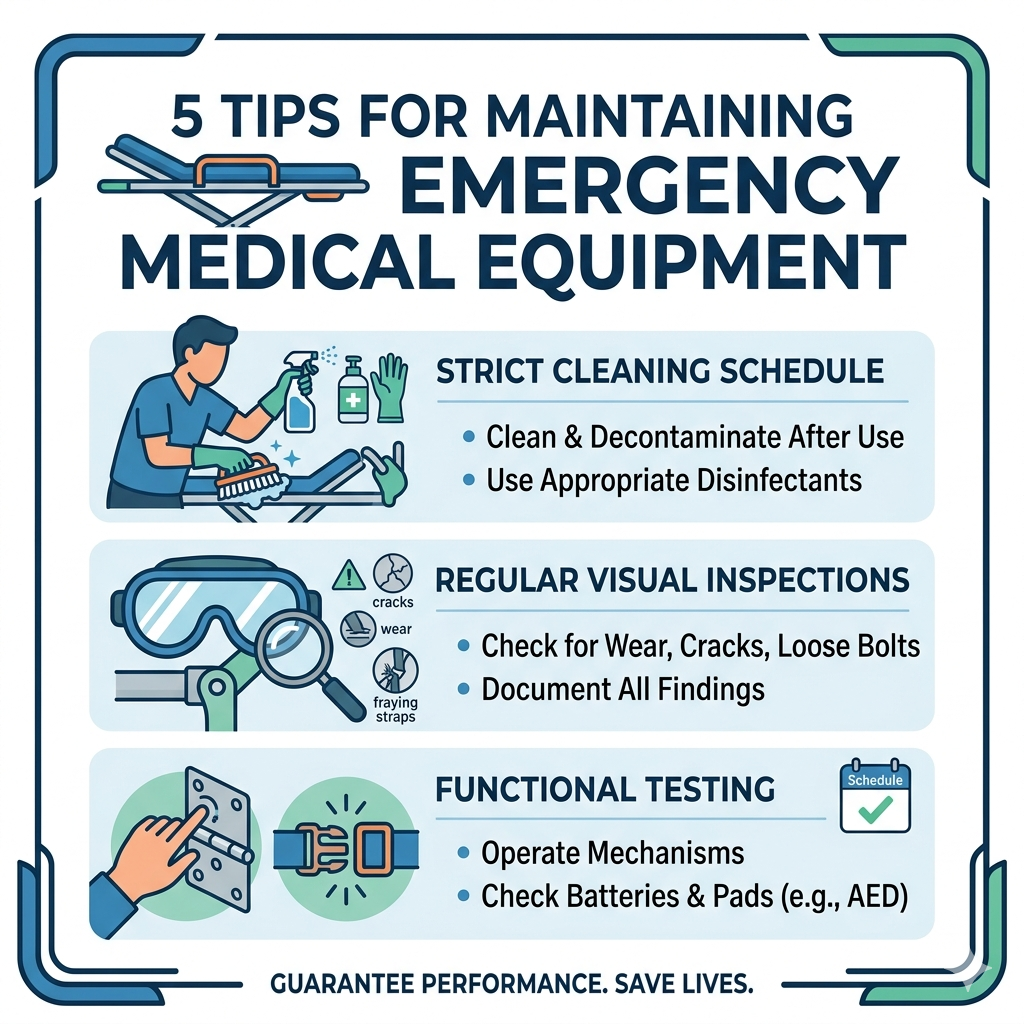
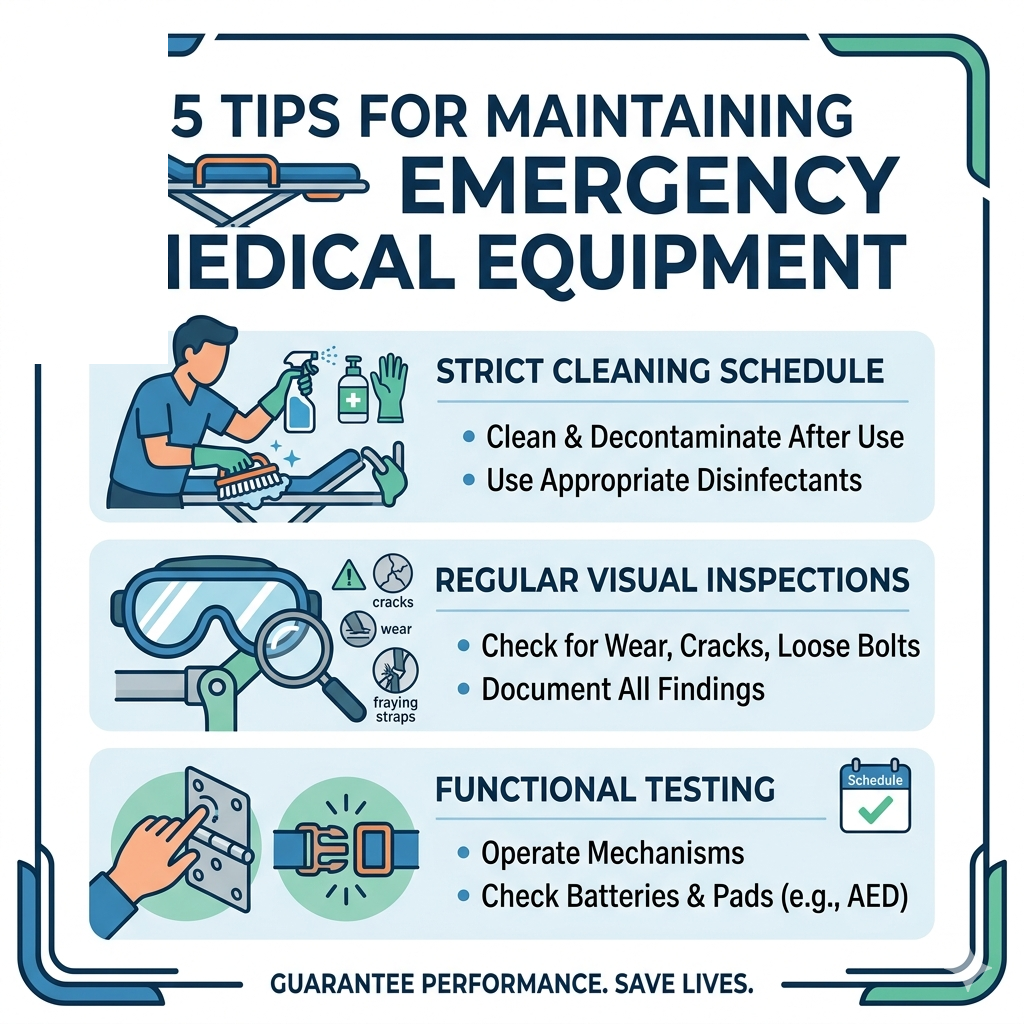
BLOG 2

diff --git a/public/insights/post2.html b/public/insights/post2.html
@@ -3,7 +3,7 @@
 <head>
     <meta charset="UTF-8">
     <meta name="viewport" content="width=device-width, initial-scale=1.0">
-    <title>5 Tips for Maintaining Your Emergency Medical Equipment - GoSafeMed</title>
+    <title>Beyond the Rescue: How to Protect Your Lifesaving Investment - GoSafeMed</title>
     <script src="https://cdn.tailwindcss.com"></script>
     <style>
         .whatsapp-fab { position: fixed; bottom: 20px; right: 20px; z-index: 1000; transition: transform 0.3s ease-in-out; }
@@ -56,21 +56,39 @@
     <!-- Blog Post Content -->
     <main class="container mx-auto px-6 py-12 max-w-4xl">
         <article class="prose lg:prose-xl">
-            <h1 class="text-3xl md:text-4xl font-bold text-secondary">5 Tips for Maintaining Your Emergency Medical Equipment</h1>
+            <h1 class="text-3xl md:text-4xl font-bold text-secondary">Beyond the Rescue: How to Protect Your Lifesaving Investment</h1>
             <p class="text-gray-500 text-sm mt-2">FEB 28, 2026</p>
             
             <img src="images/posts/post2/hero.png" alt="Medical equipment being inspected">
             
-            <p>Proper maintenance ensures your rescue equipment is ready when you need it most. Learn five essential tips for inspecting, cleaning, and storing your gear to prolong its lifespan and guarantee performance. Regular checks are non-negotiable for professionals.</p>
-            
-            <h2>1. Follow a Strict Cleaning Schedule</h2>
-            <p>After every use, all equipment must be thoroughly cleaned and decontaminated according to manufacturer guidelines. Use appropriate disinfectants and pay close attention to straps, handles, and joints where contaminants can accumulate.</p>
-            
-            <h2>2. Regular Visual Inspections</h2>
-            <p>Before and after each mission, conduct a visual inspection. Look for signs of wear and tear, such as cracks in plastic, fraying straps, or loose bolts. Document any findings and take compromised equipment out of service immediately until it can be repaired or replaced.</p>
+            <h2>Introduction</h2>
+            <p>Buying a high-quality Spinal Board or an Elite-Guard First Aid Kit is only the first step. The real challenge for Occupational Health &amp; Safety (OHS) managers and EMS providers is ensuring that equipment remains mission-ready for years, not just months.</p>
+            <p>Neglecting maintenance doesn't just shorten the lifespan of your gear—it increases your operational risk. Here is how to keep your rescue assets in peak condition.</p>
 
-            <h2>3. Functional Testing</h2>
-            <p>Don't just look—test. Regularly operate mechanisms like folding hinges, locking pins, and buckles to ensure they function smoothly and securely. For devices like AEDs, follow the self-test schedule and check battery and pad expiration dates.</p>
+            <h2>1. Environmental Decontamination (Industrial vs. Outdoor)</h2>
+            <p>A "one-size-fits-all" cleaning approach doesn't work. A stretcher used in a chemical plant faces different threats than one used on a muddy hiking trail.</p>
+            <p><strong>The Pain Point:</strong> Corrosive substances or organic debris degrading the material over time.</p>
+            <p><strong>The Action:</strong> After every mission, use pH-neutral disinfectants for our HDPE Spinal Boards. For the Elite-Guard Series, pay special attention to the textile hinges and zippers where sand or salt can cause mechanical failure.</p>
+            <p><strong>The Benefit to You:</strong> You avoid premature replacement costs and ensure a hygienic environment for every patient.</p>
+
+            <h2>2. The "Hidden Flaw" Inspection (Structural Integrity)</h2>
+            <p>Visual checks are common, but "functional stress tests" are what save lives. A crack in a spine board or a loose bolt on a foldable stretcher can be invisible to the naked eye until it’s under load.</p>
+            <p><strong>The Pain Point:</strong> Equipment failure during actual patient transport.</p>
+            <p><strong>The Action:</strong> Regularly operate all folding mechanisms and locking pins. For Spinal Boards, check for "stress whitening" or deep gouges that could compromise the board’s rigidity.</p>
+            <p><strong>The Benefit to You:</strong> Total confidence that your gear will perform under the weight of a real emergency.</p>
+
+            <h2>3. Consumables Audit: Expiry Dates &amp; Seal Integrity</h2>
+            <p>The hardware (stretchers) might last a decade, but the "software" (the medical supplies inside) requires constant vigilance.</p>
+            <p><strong>The Pain Point:</strong> Opening a first aid kit in a crisis only to find expired bandages or tampered/opened items that are no longer sterile.</p>
+            <p><strong>The Action:</strong> Perform a routine audit of "Best Before" dates and check that all sterile items remain in their original, unsealed state. To simplify this process, always keep our Medicine pack &amp; supplies on hand for instant replenishment.</p>
+            <p><strong>The Benefit to You:</strong> Economy and Peace of Mind. Instead of replacing an entire professional kit, you can simply swap out the specific modules or expired items. This lowers your long-term maintenance costs while ensuring every component is 100% ready for use.</p>
+
+            <h2>Empowering Your Safety Strategy</h2>
+            <p>At GoSafeMed, we don’t just supply hardware from the manufacturing hubs of Jiangsu and Guangdong; we provide the strategic resources to keep those tools working.</p>
+            <p>Whether you are managing a corporate office safety program or a professional EMS fleet, our FDA, CE, and ISO 13485 certified equipment is designed for durability and ease of maintenance.</p>
+
+            <h2>Looking for cost-effective refill solutions for your existing kits?</h2>
+            <p>Contact Hellen at GoSafeMed – We help you solve the procurement and maintenance puzzle so you can focus on what matters most: saving lives.</p>
 
         </article>
         

diff --git a/public/index.html b/public/index.html
@@ -129,11 +129,11 @@
                 <!-- Insight 2 -->
                 <div class="bg-white rounded-lg shadow-lg overflow-hidden">
                     <a href="insights/post2.html">
-                        <img src="insights/images/covers/post2.png" alt="5 Tips for Maintaining Your Emergency Medical Equipment" class="w-full h-48 object-cover">
+                        <img src="insights/images/covers/post2.png" alt="Beyond the Rescue: How to Protect Your Lifesaving Investment" class="w-full h-48 object-cover">
                     </a>
                     <div class="p-6">
-                        <h3 class="text-xl font-bold text-secondary mb-2">5 Tips for Maintaining Your Emergency Medical Equipment</h3>
-                        <p class="text-gray-600 mb-4">Proper maintenance ensures your rescue equipment is ready when you need it most. Learn five essential tips for inspecting, cleaning, and storing your gear to prolong its lifespan and guarantee performance.</p>
+                        <h3 class="text-xl font-bold text-secondary mb-2">Beyond the Rescue: How to Protect Your Lifesaving Investment</h3>
+                        <p class="text-gray-600 mb-4">A practical maintenance framework for OHS and EMS teams—decontamination by environment, structural integrity checks, and consumables audits—so your rescue assets stay mission-ready for years.</p>
                         <a href="insights/post2.html" class="text-primary font-semibold hover:underline">Read More &rarr;</a>
                     </div>
                 </div>

diff --git a/public/insights/insight.html b/public/insights/insight.html
@@ -93,8 +93,8 @@
                     <p class="text-lg font-semibold text-secondary">FEB 28, 2026</p>
                 </div>
                 <div class="w-full md:w-4/6">
-                    <h2 class="text-2xl font-bold text-secondary mb-2">5 Tips for Maintaining Your Emergency Medical Equipment</h2>
-                    <p class="text-gray-600">Proper maintenance ensures your rescue equipment is ready when you need it most. Learn five essential tips for inspecting, cleaning, and storing your gear to prolong its lifespan and guarantee performance. Regular checks are non-negotiable for professionals.</p>
+                    <h2 class="text-2xl font-bold text-secondary mb-2">Beyond the Rescue: How to Protect Your Lifesaving Investment</h2>
+                    <p class="text-gray-600">A practical maintenance framework for OHS and EMS teams—decontamination by environment, structural integrity checks, and consumables audits—so your rescue assets stay mission-ready for years.</p>
                 </div>
                 <div class="w-full md:w-1/6 flex justify-center md:justify-end">
                     <a href="post2.html" class="bg-primary text-white font-bold py-2 px-6 rounded-full hover:bg-opacity-90 transition duration-300">Read More</a>